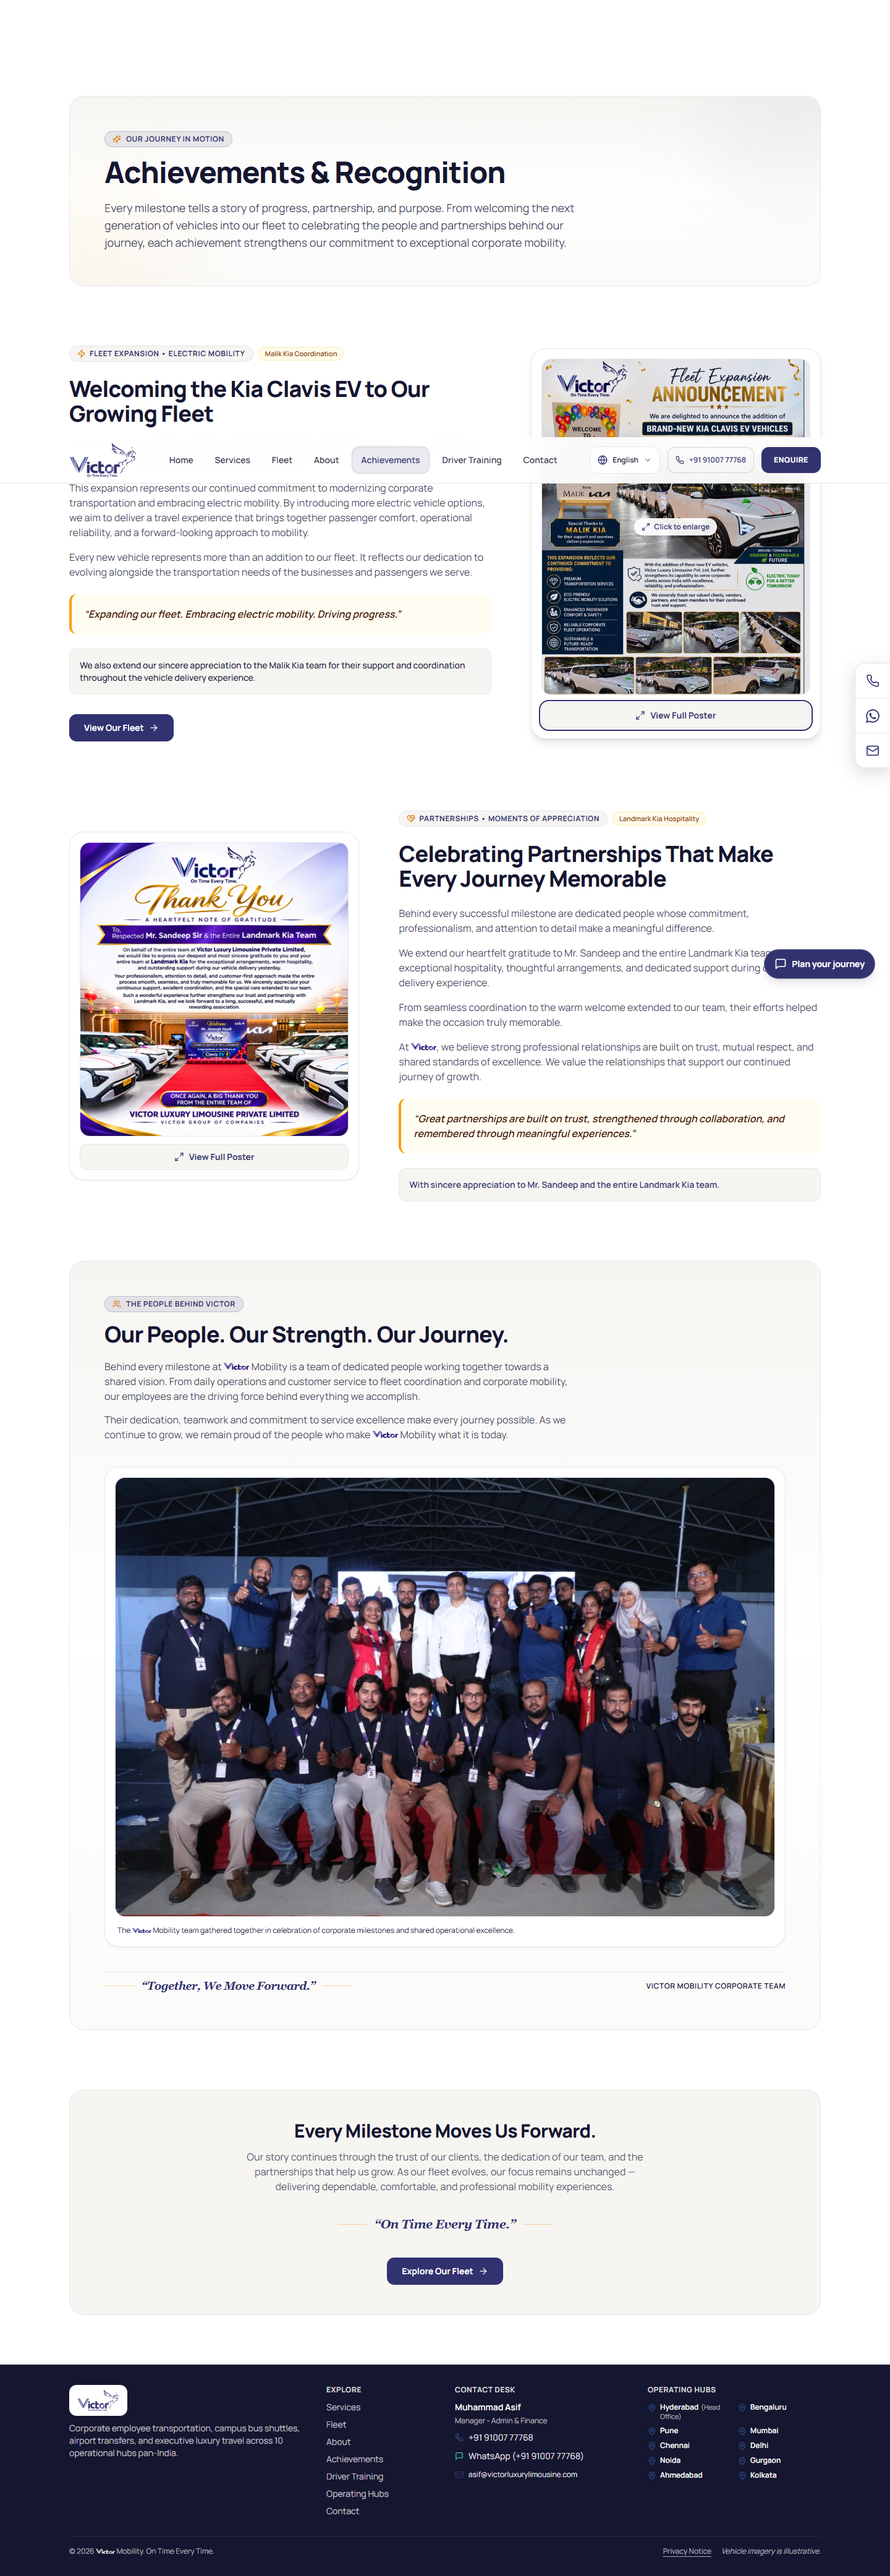
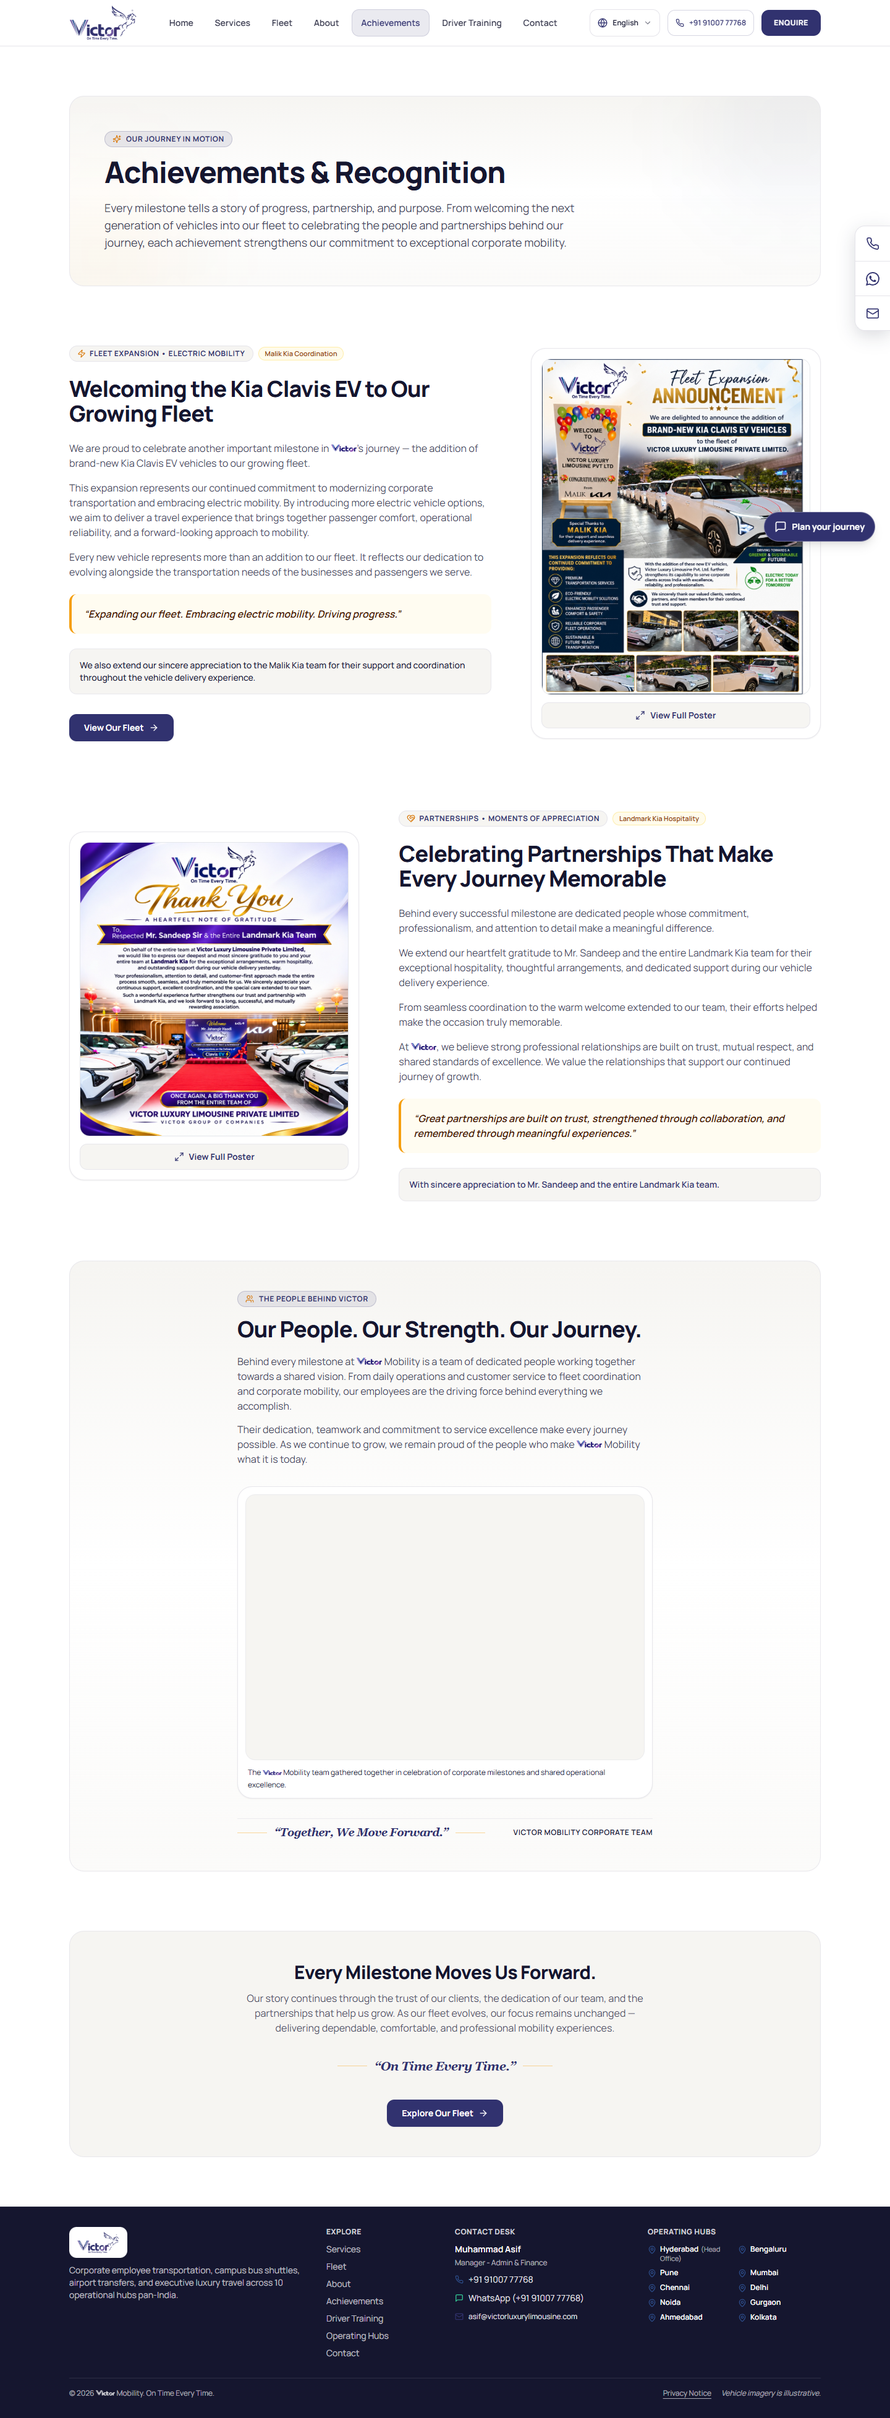
updated image in achievements page

Changed region(s): [[0.0625, 0.0, 0.9688, 0.7799], [0.0, 0.811, 1.0, 0.9982], [0.8438, 0.0, 0.9375, 0.0312]]

diff --git a/src/components/achievements/AchievementsGallery.tsx b/src/components/achievements/AchievementsGallery.tsx
@@ -275,10 +275,10 @@ export default function AchievementsGallery({ achievements }: AchievementsGaller
         <section
           id="team-highlight"
           aria-labelledby="team-highlight-heading"
-          className="rounded-3xl bg-gradient-to-b from-brand-warm-white via-white to-brand-warm-white/50 border border-brand-soft-neutral/80 p-6 sm:p-10 lg:p-14 shadow-xs space-y-8 sm:space-y-10 scroll-mt-24"
+          className="rounded-3xl bg-gradient-to-b from-brand-warm-white via-white to-brand-warm-white/50 border border-brand-soft-neutral/80 p-6 sm:p-10 lg:p-12 shadow-xs space-y-6 sm:space-y-8 scroll-mt-24"
         >
           {/* Header Block: Eyebrow, Heading, Description */}
-          <div className="max-w-3xl space-y-4">
+          <div className="max-w-2xl mx-auto space-y-4">
             {/* Eyebrow Label */}
             <div className="inline-flex items-center gap-2 px-3 py-1 rounded-full bg-brand-indigo/10 border border-brand-indigo/20 text-brand-indigo text-xs font-bold uppercase tracking-wider">
               <Users className="w-3.5 h-3.5 text-amber-600" />
@@ -303,9 +303,9 @@ export default function AchievementsGallery({ achievements }: AchievementsGaller
             </div>
           </div>
 
-          {/* Large Dominant Landscape Photograph Container */}
-          <div className="w-full">
-            <div className="rounded-2xl sm:rounded-3xl bg-white p-2.5 sm:p-4 border border-brand-soft-neutral/90 shadow-sm hover:shadow-md transition-shadow duration-300">
+          {/* Balanced Landscape Photograph Container */}
+          <div className="max-w-2xl mx-auto w-full">
+            <div className="rounded-2xl sm:rounded-3xl bg-white p-2 sm:p-3 border border-brand-soft-neutral/90 shadow-sm hover:shadow-md transition-shadow duration-300">
               <div
                 className="relative w-full overflow-hidden rounded-xl sm:rounded-2xl bg-brand-warm-white border border-brand-soft-neutral/60"
                 style={{
@@ -317,14 +317,14 @@ export default function AchievementsGallery({ achievements }: AchievementsGaller
                   alt={teamHighlight.image.alt}
                   fill
                   quality={95}
-                  className="object-contain sm:object-cover sm:object-center"
-                  sizes="(max-width: 1440px) 100vw, 1200px"
+                  className="object-contain"
+                  sizes="(max-width: 768px) 100vw, 672px"
                 />
               </div>
 
               {/* Caption */}
               {teamHighlight.image.caption && (
-                <p className="pt-3 px-1 text-xs text-brand-slate text-center sm:text-left leading-relaxed">
+                <p className="pt-2.5 px-1 text-xs text-brand-slate text-center sm:text-left leading-relaxed">
                   <BrandText>{teamHighlight.image.caption}</BrandText>
                 </p>
               )}
@@ -332,7 +332,7 @@ export default function AchievementsGallery({ achievements }: AchievementsGaller
           </div>
 
           {/* Closing Statement */}
-          <div className="pt-2 flex flex-col sm:flex-row items-center justify-between gap-4 border-t border-brand-soft-neutral/70">
+          <div className="max-w-2xl mx-auto pt-2 flex flex-col sm:flex-row items-center justify-between gap-4 border-t border-brand-soft-neutral/70">
             <div className="inline-flex items-center gap-3">
               <div className="h-px w-8 sm:w-12 bg-amber-500/40" />
               <p className="text-base sm:text-lg font-bold text-brand-indigo tracking-tight font-serif italic">

diff --git a/docs/handoff.md b/docs/handoff.md
@@ -20,8 +20,8 @@ Integrated the original Victor Mobility employee group photograph into the Achie
 
 3. **Photograph Integration & Visual Prominence**:
    - Saved the authentic employee group photograph as [`victor-team-gathering.jpg`](file:///d:/victor%20website/public/images/achievements/victor-team-gathering.jpg) ($1024 \times 682$, 352 kB) in `public/images/achievements/`.
-   - Formatted to span the full available container width while strictly maintaining its natural aspect ratio ($1024 / 682 \approx 1.5015$).
-   - Ensured every person remains visible with zero cropping of team members at the left or right edges using a dedicated responsive container and high-fidelity rendering.
+   - Centered in a balanced, dedicated container constrained to `max-w-2xl mx-auto` (~644px wide $\times$ 428px high on desktop, scaled smoothly on mobile), replacing the initial overly large full-width container for an elegant, proportional fit.
+   - Strictly maintains its natural aspect ratio ($1024 / 682 \approx 1.5015$) with zero cropping of team members standing at the left or right edges.
    - Framed in a rounded card with subtle neutral border and warm white interior.
    - Alt text: *"Victor Mobility employees and team members gathered together at a company event."*
 
